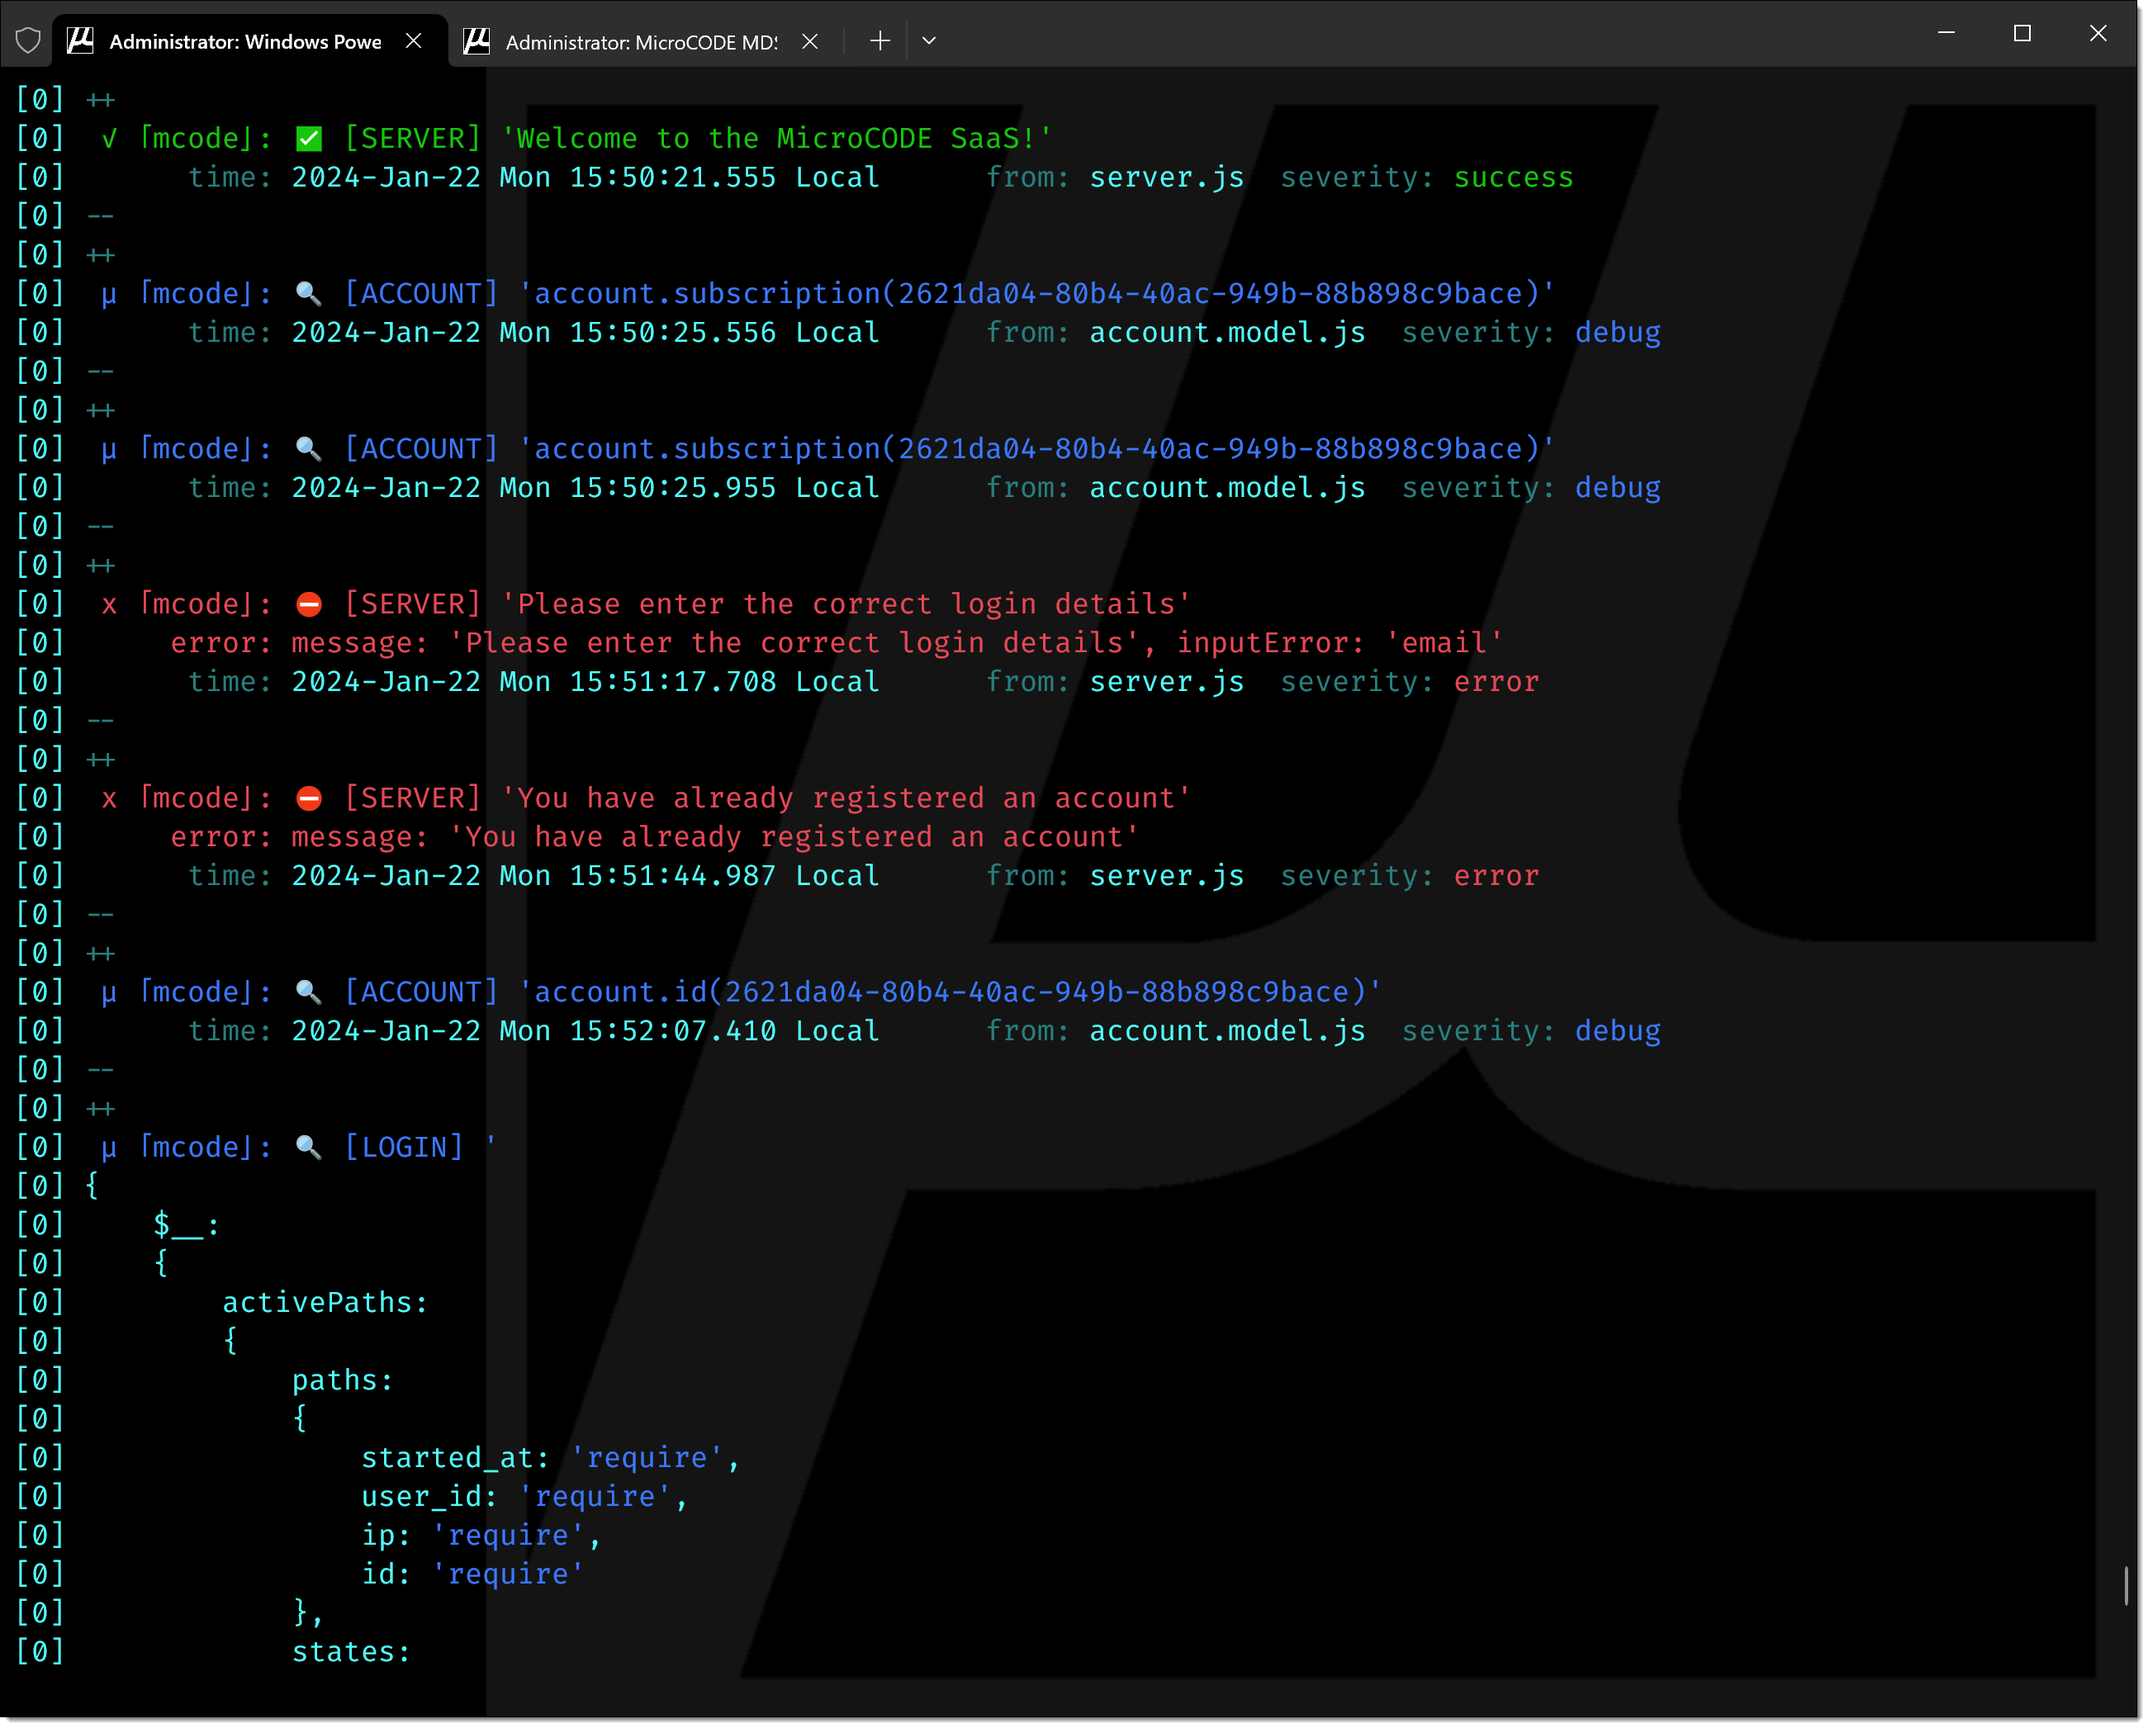
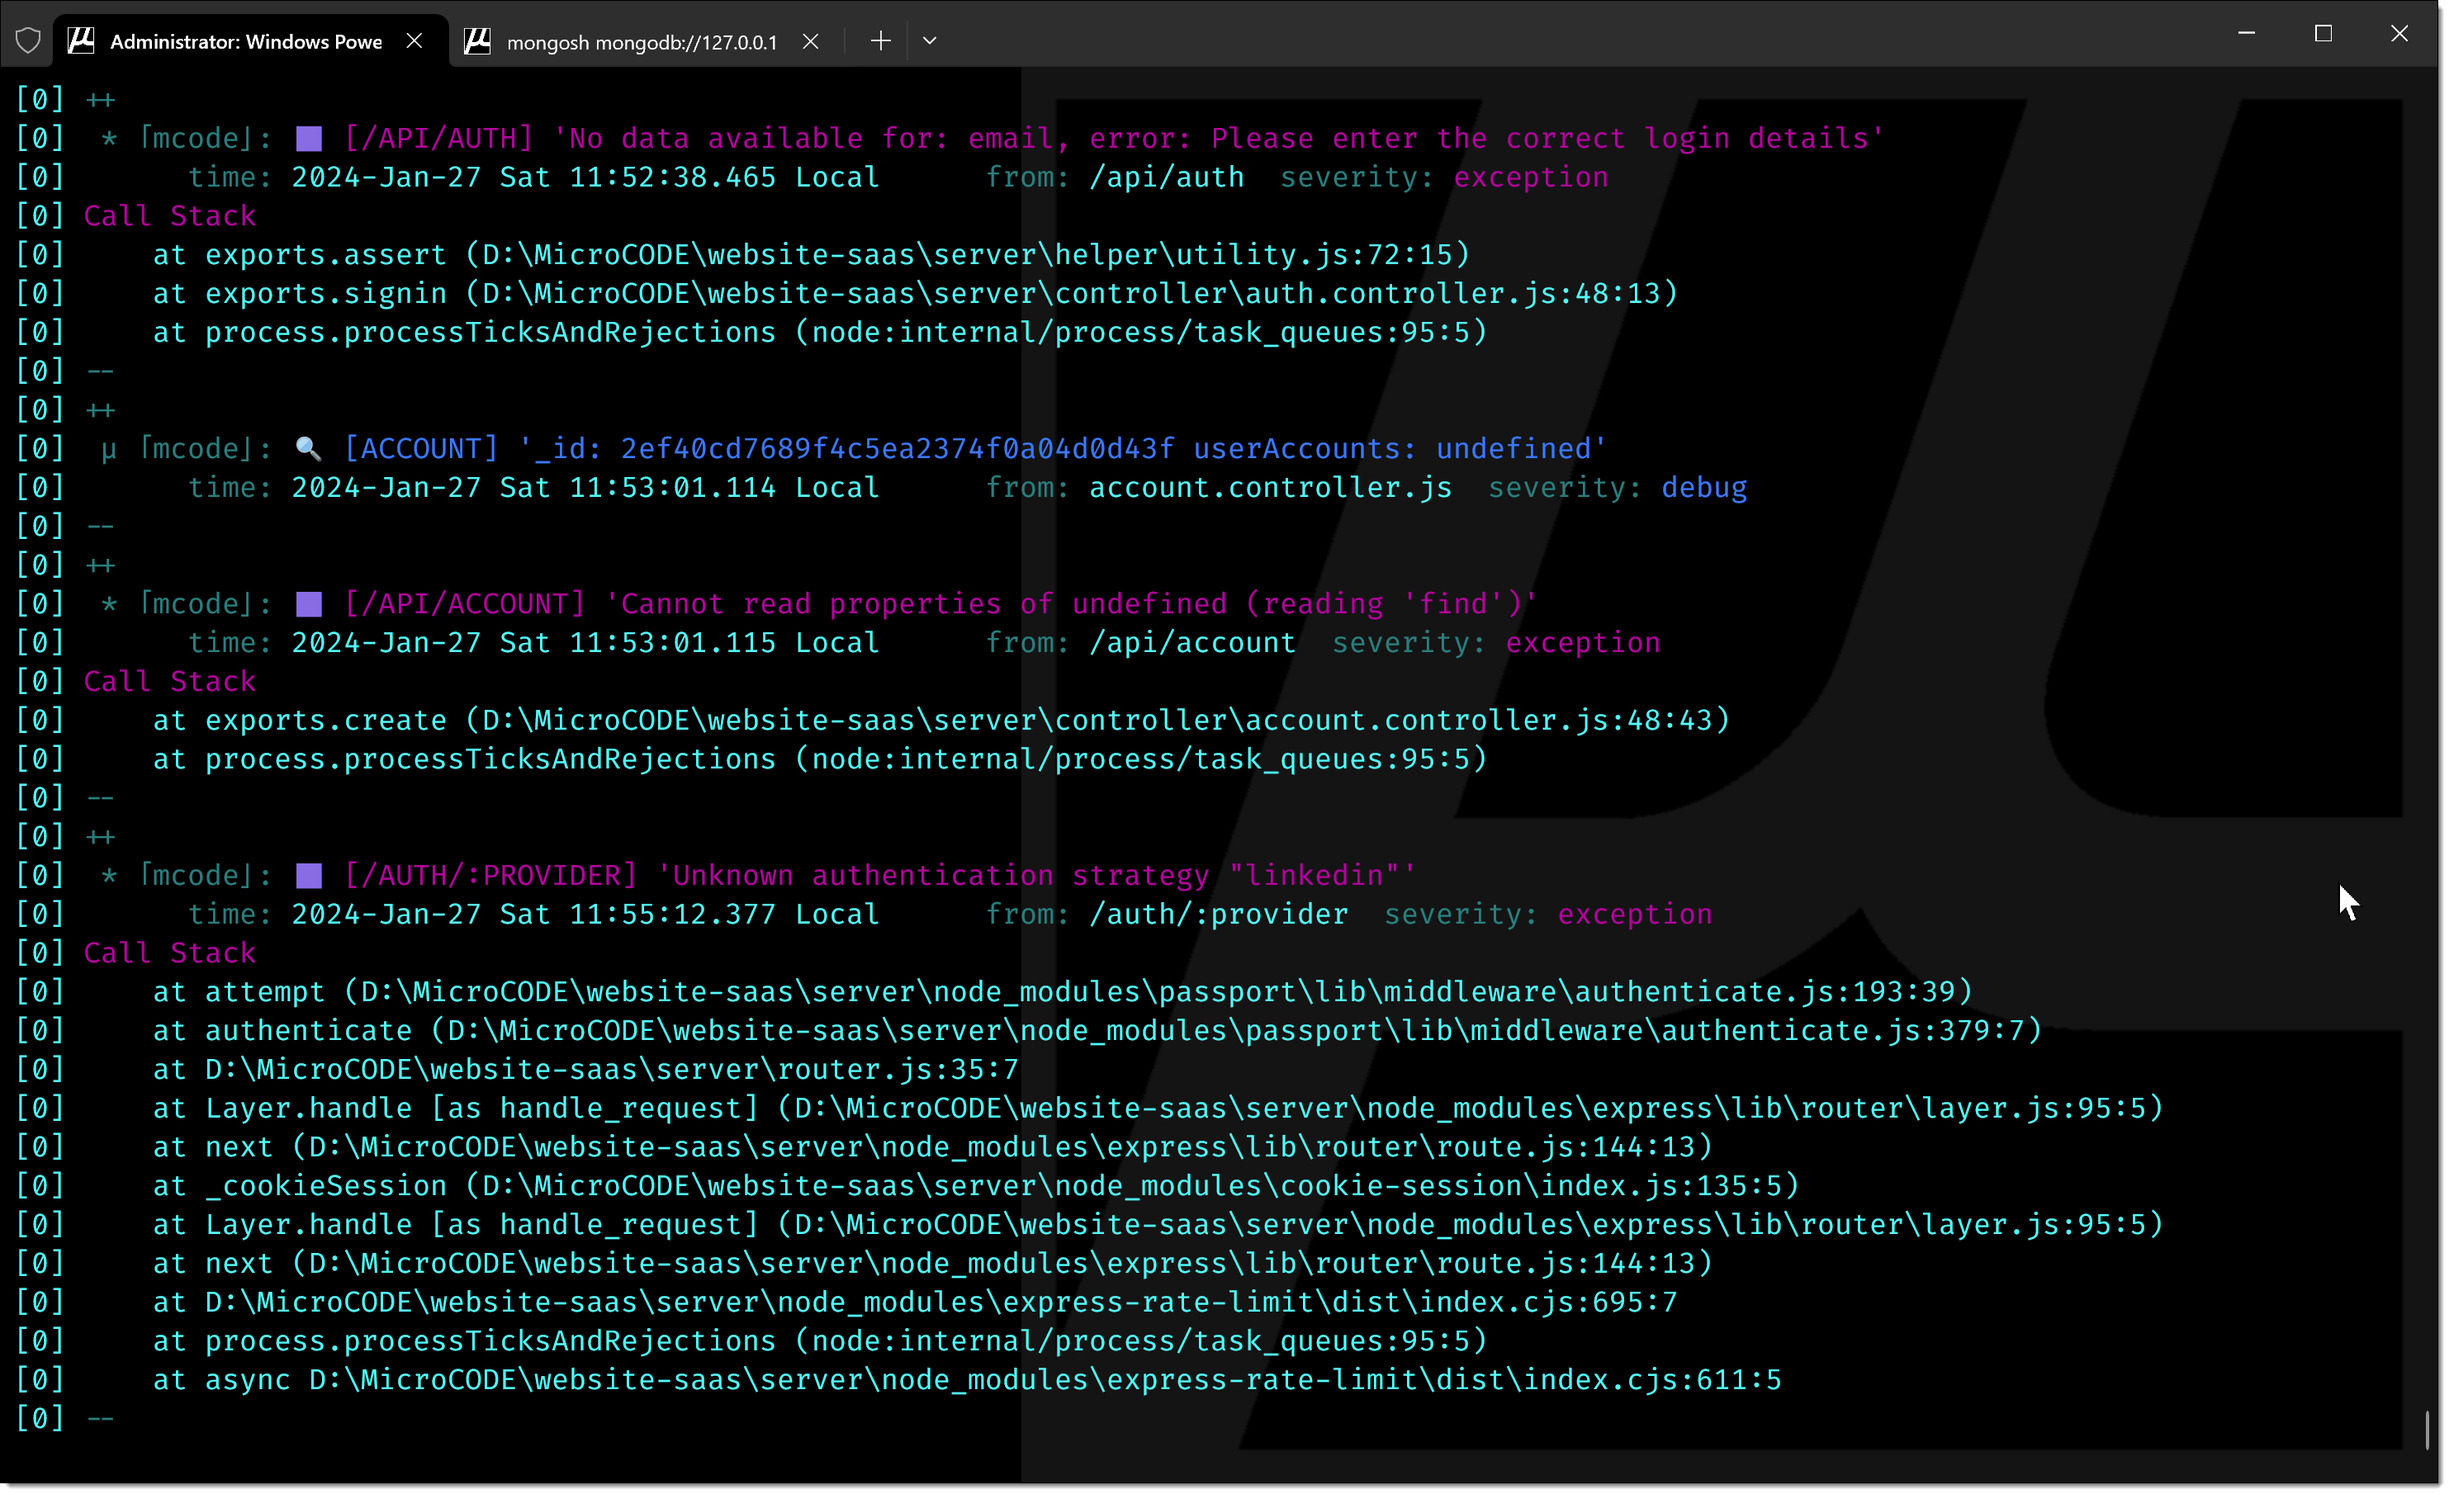
v0.0.7 - Dimmed [mcode] margin marker and updated README.

diff --git a/index.js b/index.js
@@ -194,8 +194,8 @@ const mcode = {
             warn: "\x1b[33m",  // yellow
             cold: "\x1b[34m",  // blue
             dead: "\x1b[35m",  // magenta
-            info: "\x1b[36m",  // cyan
-            hmmm: "\x1b[37m",  // white
+            hmmm: "\x1b[36m",  // cyan
+            info: "\x1b[37m",  // white
             dbug: "\x1b[35m",  // Bright Magenta
         */
         // - colors on BLACK background, i.e.: for 'Dark Mode' Console
@@ -205,8 +205,8 @@ const mcode = {
         warn: "\x1b[93m",  // yellow
         cold: "\x1b[94m",  // blue
         dead: "\x1b[95m",  // magenta
-        info: "\x1b[96m",  // cyan
-        hmmm: "\x1b[97m",  // white
+        hmmm: "\x1b[96m",  // cyan
+        info: "\x1b[97m",  // white
         dbug: "\x1b[94m",  // Bright Magenta
 
         // custom JSON colors
@@ -271,7 +271,7 @@ const mcode = {
 
         const moduleName = source.split('.')[0].toUpperCase();
 
-        entry += (vt.reset + vt.dim + '++\n' + vt.reset);
+        entry += (vt.reset + vt.dim + '++\n' + vt.reset + vt.dim);
 
         let sevColor = vt.reset;
         let sevText = severity;
@@ -282,44 +282,44 @@ const mcode = {
             case 'info':
                 sevText = 'info';
                 sevColor += vt.info;
-                entry += `${vt.info} i ｢mcode｣: 📣 [${moduleName}] '${logifiedMessage}'`;
+                entry += ` i ｢mcode｣: 📣 ${sevColor}[${moduleName}] '${logifiedMessage}'`;
                 break;
             case 'w':
             case 'warn':
             case 'warning':
                 sevText = 'warn';
                 sevColor += vt.warn;
-                entry += `${vt.warn} ! ｢mcode｣: ⚠ [${moduleName}] '${logifiedMessage}'`;
+                entry += ` ! ｢mcode｣: ⚠ ${sevColor}[${moduleName}] '${logifiedMessage}'`;
                 break;
             case 'e':
             case 'error':
                 sevText = 'error';
                 sevColor += vt.errr;
-                entry += `${vt.errr} x ｢mcode｣: ⛔ [${moduleName}] '${logifiedMessage}'`;
+                entry += ` x ｢mcode｣: ❌ ${sevColor}[${moduleName}] '${logifiedMessage}'`;
                 break;
             case 'x':
             case 'exception':
                 sevText = 'exception';
                 sevColor += vt.dead;
-                entry += `${vt.dead} * ｢mcode｣: ☠ [${moduleName}] '${logifiedMessage}'`;
+                entry += ` * ｢mcode｣: 🟪 ${sevColor}[${moduleName}] '${logifiedMessage}'`;
                 break;
             case 's':
             case 'success':
                 sevText = 'success';
                 sevColor += vt.good;
-                entry += `${vt.good} ✓ ｢mcode｣: ✅ [${moduleName}] '${logifiedMessage}'`;
+                entry += ` ✓ ｢mcode｣: ✅ ${sevColor}[${moduleName}] '${logifiedMessage}'`;
                 break;
             case 'd':
             case 'debug':
                 sevText = 'debug';
                 sevColor += vt.dbug;
-                entry += `${vt.dbug} µ ｢mcode｣: 🔍 [${moduleName}] '${logifiedMessage}'`;
+                entry += ` µ ｢mcode｣: 🔍 ${sevColor}[${moduleName}] '${logifiedMessage}'`;
                 break;
             case '?':
             default:
                 sevText = 'undefined';
                 sevColor += vt.hmmm;
-                entry += `${vt.hmmm} ? ｢mcode｣: ❓ [${moduleName}] '${logifiedMessage}'`;
+                entry += ` ? ｢mcode｣: ❓ ${sevColor}[${moduleName}] '${logifiedMessage}'`;
                 break;
         }
         entry += '\n';
@@ -341,7 +341,7 @@ const mcode = {
                 logifiedError = error;
             }
 
-            entry += `${vt.errr}     error: ${mcode.simplify(logifiedError)}\n`;
+            entry += `${vt.reset}${vt.dim}     error: ${vt.reset}${sevColor}${mcode.simplify(logifiedError)}\n`;
             status += ` ERROR: ${mcode.simplify(logifiedError)}`;
         }
 
@@ -389,20 +389,51 @@ const mcode = {
 
         const moduleName = source.split('.')[0].toUpperCase();
 
-        // Exceptions are always logged as 'Fatal' -- NOTE: do not use 'collapsed' for Server Log
-        entry +=
-            `${vt.reset}${vt.dim}++\n` +
-            `${vt.reset}${vt.dead} * ｢mcode｣: ☠ [${moduleName}] '${logifiedMessage}'\n` +
-            `${vt.reset}${vt.dead} exception: ${vt.dead}${mcode.simplify(exception)}\n` +
-            `${vt.reset}${vt.dim}      time: ${vt.reset}${mcode.timeStamp()}` +
-            `${vt.reset}${vt.dim}      from: ${vt.reset}${source}` +
-            `${vt.reset}${vt.dim}  severity: ${vt.reset}${vt.dead}exception${vt.dead}`;
+        let sevColor = vt.reset;
+        sevColor += vt.dead;
 
-        console.log(entry);
-        console.trace(`${vt.dead} Call Stack`);
-        console.log(`${vt.dim}--${vt.reset}`);
+        // if the 'exception' arg contains "Error: " and "at " it is a Error message with a Call Stack
+        // just log it without generating a new 'console.trace()' Call Stack
+        if (exception.includes("Error: ") && exception.includes("at "))
+        {
+            entry +=
+                `${vt.reset}${vt.dim}++\n` +
+                `${vt.reset}${vt.dim} * ｢mcode｣: 🟪 ${sevColor}[${moduleName}] '${logifiedMessage}'\n` +
+                `${vt.reset}${vt.dim}      time: ${vt.reset}${mcode.timeStamp()}` +
+                `${vt.reset}${vt.dim}      from: ${vt.reset}${source}` +
+                `${vt.reset}${vt.dim}  severity: ${sevColor}exception${sevColor}`;
 
-        return `${message} ${exception}`;  // for caller to return
+            console.log(entry);
+
+            // strip the "Error: " line from the exception message, it's redundant and shown above,
+            // take off the entire 1st line, it contains the 'exception' message, leave only the Call Stack
+            let exceptionLines = exception.split('\n');
+            exceptionLines.shift();
+            exception = exceptionLines.join('\n');
+
+            console.log(`${vt.dead}Call Stack`);
+            console.log(exception);
+            console.log(`${vt.dim}--${vt.reset}`);
+
+            return `${message} ${exception}`;  // for caller to return
+        }
+        else
+        {
+            // Exceptions are always logged as 'Fatal' -- NOTE: do not use 'collapsed' for Server Log
+            entry +=
+                `${vt.reset}${vt.dim}++\n` +
+                `${vt.reset}${vt.dim} * ｢mcode｣: 🟪 ${sevColor}[${moduleName}] '${logifiedMessage}'\n` +
+                `${vt.reset}${vt.dim} ${sevColor}${mcode.simplify(exception)}\n` +
+                `${vt.reset}${vt.dim}      time: ${vt.reset}${mcode.timeStamp()}` +
+                `${vt.reset}${vt.dim}      from: ${vt.reset}${source}` +
+                `${vt.reset}${vt.dim}  severity: ${sevColor}exception${sevColor}`;
+
+            console.log(entry);
+            console.trace('exception call stack...');
+            console.log(`${vt.dim}--${vt.reset}`);
+
+            return `${message} ${exception}`;  // for caller to return
+        }
     },
 
     /**

diff --git a/README.md b/README.md
@@ -29,8 +29,13 @@ and "console.error()" with "mcode.exp()".
 ## mcode.log() vs. console.log()
 
 Why did we write this package? We were unhappy with the limitations of console.log() and the lack of a common
-way to log events--with timestamps and source code origin--and needed standardized severity marking.
+way to log events with:
 
+1) timestamps,
+2) source code origin, and
+3) standardized severity marking.
+4) We also wanted our app events to stand out, and not to get confused with events coming out of other packages into a console.
+5) We wanted to use our own Object parsing / display to control what is shown from within teh Object...
 * **mcode.log()** shows a pure data view of an object, parsing the methods and functions out of the view.
 * **console.log()** shows a complex object filled with all methods, prototypes, and data mixed, and it must be 'drilled' to get to the data of interest while debugging.
 
@@ -56,7 +61,7 @@ This is an example of each **mcode.log()** and **mcode.exp()** event severity su
 
 <p align="left"><img src=".\.github\images\mcode-log-calls.png" width="720" title="Call examples..."></p>
 
-* Example of the differing severities in console output...
+* Example of the differing severities in the console output...
 
 <p align="left"><img src=".\.github\images\mcode-log-severity.png" width="720" title="Event Severities..."></p>
 
@@ -78,7 +83,6 @@ This is an example of each **mcode.log()** and **mcode.exp()** event severity su
 npm install mcode
 ```
 
-
 ### Examples
 
 * View of mcode.log() in a Browser...
@@ -99,6 +103,12 @@ npm install mcode
 If you'd like see the values of any parameter--and the call stack that got you to a specific function--you
 can place an 'exception' log statement on entry and you'll get the display shown below...
 
+* Code import 'mcode' and define 'moduleName'...
+* We recommend the 'moduleName' define is placed at the beginning of every file for use in mcode.log() and mcode.exp().
+* This allows the module to continue to log source code origin even after 'webpack' processing.
+
+<p align="left"><img src=".\.github\images\mcode-exp-debug0.png" width="720" title="Code to see params/call..."></p>
+
 * Code to log parameters and call stack before the actual exception...
 
 <p align="left"><img src=".\.github\images\mcode-exp-debug1.png" width="720" title="Code to see params/call..."></p>
@@ -109,6 +119,16 @@ can place an 'exception' log statement on entry and you'll get the display shown
 
 <p align="left"><img src=".\.github\images\mcode-exp-debug2.png" width="720" title="Params/Call Stack..."></p>
 
+
+### Throwing 'Error' object and logging support...
+
+The **mcode.exp()** function recognizes and logs the standard 'Error Object' created and thrown to a base condition handler.
+
+<p align="left"><img src=".\.github\images\mcode-exp-throw1.png" width="720" title="Throw Error logging..."></p>
+
+<p align="left"><img src=".\.github\images\mcode-exp-throw2.png" width="720" title="Throw Error logging..."></p>
+
+<p align="left"><img src=".\.github\images\mcode-exp-throw3.png" width="720" title="Throw Error logging..."></p>
 
 
 ## Included Functions
@@ -177,6 +197,10 @@ Contributors names and contact info...
 
 ## Version History
 
+* 0.0.7
+    * Changed the [mcode] identification in the left margin to dim cyan--like the data labels--to focus on App content, not the package.
+* 0.0.6
+    * in mcode.exp() recognize 'Error()' objects and log appropriately.
 * 0.0.5
     * Reset terminal VT video after an Exception.
 * 0.0.4
